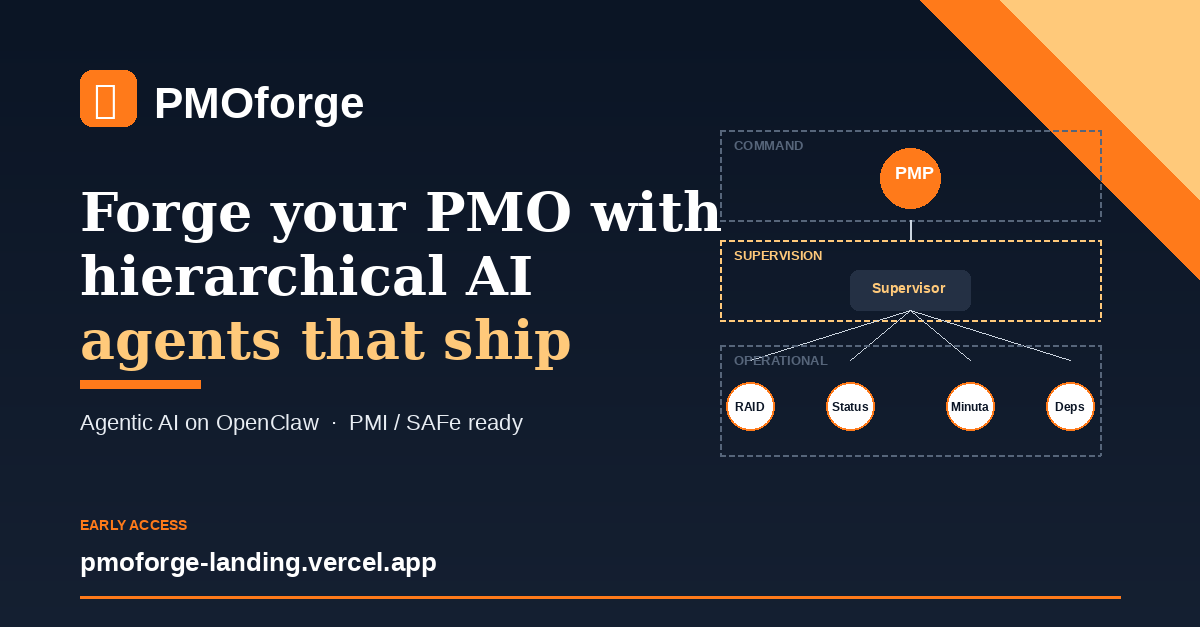
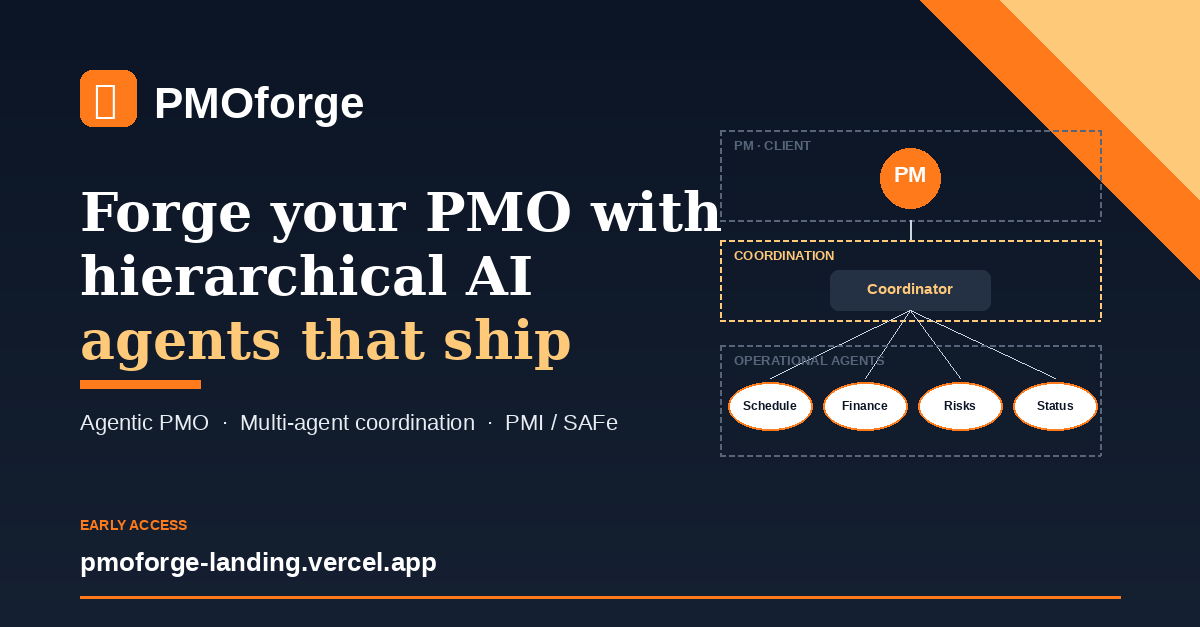
[05-marketing] v0.4.4 — regen og.png/og-en.png (Modo Stealth + diagrama actualizado)

diff --git a/scripts/generate-og.py b/scripts/generate-og.py
@@ -63,21 +63,27 @@ COPY = {
         'h1_l1': 'Forja tu PMO con',
         'h1_l2': 'agentes IA que',
         'h1_l3': 'sí ejecutan',
-        'subtitle': 'Agentes jerárquicos sobre OpenClaw  ·  PMI / SAFe',
+        'subtitle': 'PMO agéntica  ·  Coordinación multi-agente  ·  PMI / SAFe',
         'cta': 'ACCESO ANTICIPADO',
-        'layer_command': 'MANDO',
-        'layer_supervision': 'SUPERVISIÓN',
-        'layer_operational': 'OPERATIVOS',
+        'layer_command': 'PM · CLIENTE',
+        'layer_supervision': 'COORDINACIÓN',
+        'layer_operational': 'AGENTES OPERATIVOS',
+        'node_command': 'PM',
+        'node_supervisor': 'Coordinador',
+        'nodes_operational': ['Cronograma', 'Finanzas', 'Riesgos', 'Status'],
     },
     'en': {
         'h1_l1': 'Forge your PMO with',
         'h1_l2': 'hierarchical AI',
         'h1_l3': 'agents that ship',
-        'subtitle': 'Agentic AI on OpenClaw  ·  PMI / SAFe ready',
+        'subtitle': 'Agentic PMO  ·  Multi-agent coordination  ·  PMI / SAFe',
         'cta': 'EARLY ACCESS',
-        'layer_command': 'COMMAND',
-        'layer_supervision': 'SUPERVISION',
-        'layer_operational': 'OPERATIONAL',
+        'layer_command': 'PM · CLIENT',
+        'layer_supervision': 'COORDINATION',
+        'layer_operational': 'OPERATIONAL AGENTS',
+        'node_command': 'PM',
+        'node_supervisor': 'Coordinator',
+        'nodes_operational': ['Schedule', 'Finance', 'Risks', 'Status'],
     },
 }
 
@@ -135,41 +141,48 @@ def make_image(out_path: Path, lang: str = 'es'):
     base_x = 720
     base_y = 130
 
-    # Capa 1 — Mando
+    # Capa 1 — PM Cliente
     draw_layer_box(d, base_x, base_y, 380, 90, t['layer_command'], INK_500)
     d.ellipse([(base_x + 160, base_y + 18), (base_x + 220, base_y + 78)], fill=ACCENT)
-    d.text((base_x + 175, base_y + 32), "PMP",
-           font=font(F_SANS_BOLD, 18), fill=WHITE)
+    cmd_font = font(F_SANS_BOLD, 22)
+    bbox = d.textbbox((0, 0), t['node_command'], font=cmd_font)
+    tw_cmd = bbox[2] - bbox[0]
+    d.text((base_x + 190 - tw_cmd / 2, base_y + 32), t['node_command'],
+           font=cmd_font, fill=WHITE)
 
-    # Conector
+    # Conector PM → Coordinador
     d.line([(base_x + 190, base_y + 90), (base_x + 190, base_y + 110)],
            fill=(204, 213, 224), width=2)
 
-    # Capa 2 — Supervisión
+    # Capa 2 — Coordinación
     draw_layer_box(d, base_x, base_y + 110, 380, 80, t['layer_supervision'], ACCENT_LIGHT)
-    d.rounded_rectangle(
-        [(base_x + 130, base_y + 140), (base_x + 250, base_y + 180)],
-        radius=8, fill=INK_700
+    coord_box = (base_x + 110, base_y + 140, base_x + 270, base_y + 180)
+    d.rounded_rectangle(coord_box, radius=8, fill=INK_700)
+    coord_font = font(F_SANS_BOLD, 15)
+    bbox = d.textbbox((0, 0), t['node_supervisor'], font=coord_font)
+    tw_coord = bbox[2] - bbox[0]
+    d.text(
+        (base_x + 190 - tw_coord / 2, base_y + 150),
+        t['node_supervisor'],
+        font=coord_font, fill=ACCENT_LIGHT,
     )
-    d.text((base_x + 152, base_y + 150), "Supervisor",
-           font=font(F_SANS_BOLD, 14), fill=ACCENT_LIGHT)
 
-    # Conectores
-    for tx in [base_x + 30, base_x + 130, base_x + 250, base_x + 350]:
-        d.line([(base_x + 190, base_y + 180), (tx, base_y + 230)],
+    # Conectores Coordinador → 4 operativos
+    for tx in [base_x + 50, base_x + 145, base_x + 240, base_x + 335]:
+        d.line([(base_x + 190, base_y + 180), (tx, base_y + 248)],
                fill=(204, 213, 224), width=1)
 
-    # Capa 3 — Operativos
+    # Capa 3 — Operativos (elipses horizontales para nombres largos)
     draw_layer_box(d, base_x, base_y + 215, 380, 110, t['layer_operational'], INK_500)
-    agents = [("RAID", base_x + 30), ("Status", base_x + 130),
-              ("Minuta", base_x + 250), ("Deps", base_x + 350)]
-    for label, ax in agents:
-        d.ellipse([(ax - 24, base_y + 252), (ax + 24, base_y + 300)],
+    node_centers = [base_x + 50, base_x + 145, base_x + 240, base_x + 335]
+    node_font = font(F_SANS_BOLD, 12)
+    for label, ax in zip(t['nodes_operational'], node_centers):
+        d.ellipse([(ax - 42, base_y + 252), (ax + 42, base_y + 300)],
                   outline=ACCENT, width=2, fill=WHITE)
-        bbox = d.textbbox((0, 0), label, font=font(F_SANS_BOLD, 12))
+        bbox = d.textbbox((0, 0), label, font=node_font)
         tw = bbox[2] - bbox[0]
-        d.text((ax - tw / 2, base_y + 270), label,
-               font=font(F_SANS_BOLD, 12), fill=INK_900)
+        d.text((ax - tw / 2, base_y + 269), label,
+               font=node_font, fill=INK_900)
 
     # Línea inferior decorativa
     d.line([(80, H - 30), (W - 80, H - 30)], fill=ACCENT, width=3)

diff --git a/CHANGELOG.md b/CHANGELOG.md
@@ -8,6 +8,23 @@ Convención adoptada el 2026-05-20 (decisión D5 en `DECISIONS.md` del monorepo 
 
 ## [Unreleased]
 
+## [0.4.4] — 2026-05-22
+
+> Regeneración de las imágenes Open Graph (`public/og.png` y `public/og-en.png`) para eliminar referencias a stack interno (Modo Stealth) y alinear el diagrama esquemático con el modelo de producto vigente. La imagen previa decía "Agentes jerárquicos sobre OpenClaw" y mostraba un esquema MANDO/SUPERVISIÓN/OPERATIVOS con nodos PMP/Supervisor/RAID/Status/Minuta/Deps que ya no corresponden a la arquitectura actual.
+
+### Changed
+
+- **Copy del og:image (ES y EN):** subtítulo `"Agentes jerárquicos sobre OpenClaw · PMI / SAFe"` → **"PMO agéntica · Coordinación multi-agente · PMI / SAFe"** (EN: `"Agentic AI on OpenClaw · PMI / SAFe ready"` → **"Agentic PMO · Multi-agent coordination · PMI / SAFe"**). Mismo cumplimiento de Modo Stealth que la landing: sin nombres de stack, providers ni arquitectura interna.
+- **Etiquetas de capa del esquema:** MANDO → **PM · CLIENTE** (EN: COMMAND → PM · CLIENT); SUPERVISIÓN → **COORDINACIÓN** (SUPERVISION → COORDINATION); OPERATIVOS → **AGENTES OPERATIVOS** (OPERATIONAL → OPERATIONAL AGENTS). Refleja el modelo del producto donde el PM cliente conversa con un único agente Coordinador que orquesta a los operacionales sobre un tablero compartido.
+- **Nodos del esquema:** Capa 1 PMP → **PM**; Capa 2 Supervisor → **Coordinador** (EN: Coordinator); Capa 3 RAID·Status·Minuta·Deps → **Cronograma · Finanzas · Riesgos · Status** (EN: Schedule · Finance · Risks · Status). Los 4 nodos seleccionados representan dominios PMI universalmente reconocibles a tamaño thumbnail; los 8 dominios completos del producto se ven en el hero al hacer clic.
+- **`scripts/generate-og.py` parametrizado:** los nombres de nodos de las tres capas (`node_command`, `node_supervisor`, `nodes_operational`) ahora se leen del diccionario `COPY` por idioma en lugar de estar hardcoded en el renderizador. Esto facilita futuras iteraciones de copy del og sin tocar lógica de dibujo.
+- **Ajustes de geometría del esquema:** caja del Coordinador ensanchada (160px vs 120px) y fuente subida a 15pt para acomodar "Coordinador/Coordinator" (palabras más largas que "Supervisor"); nodos operativos como elipses horizontales (84×48px) en lugar de círculos (48×48px) para acomodar etiquetas largas ("Cronograma", "Schedule") sin recorte; centros recalculados a `[50, 145, 240, 335]` con conectores realineados.
+
+### Operational
+
+- Script Pillow ejecutado en sandbox Ubuntu con fuentes Liberation/DejaVu del sistema; ambas imágenes regeneradas a 1200×627px (~50 KB cada una, dentro del límite recomendado de 300 KB para Open Graph). `og:image:width` y `og:image:height` en `Base.astro` quedan correctos sin tocar.
+- Render validado visualmente: ambas imágenes ya no contienen referencias al stack interno, el diagrama refleja el modelo de producto descrito en `product-vision.md` y el hero de la landing es coherente con lo que verá el visitante al hacer clic en el preview de redes.
+
 ## [0.4.3] — 2026-05-21
 
 > Dos cambios en una release: (a) fix del archivo `public/photo.jpg` que quedó untracked en v0.4.2; (b) ajuste de layout de la sección Founder por pedido del usuario — título y eyebrow pasan a full-width arriba, foto queda incrustada debajo del título al lado del párrafo.